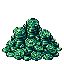
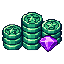
Clarify coin stacks and shorten road preview samples

diff --git a/test/node/coin_icon.test.js b/test/node/coin_icon.test.js
@@ -34,8 +34,8 @@ test('coin icon: the world coin scale derives from the 64px texture', () => {
     'the old 16px-disc scale is gone');
   assert.truthy(/setScale\(\(pile.width \/ s\.width\) \* pulse\)/.test(RENDER_SRC),
     'the draw scales the 64px frame down to a fixed displayed width');
-  assert.truthy(/const COIN_DROP_PX = 16\.8;/.test(RENDER_SRC),
-    'the displayed width is 30% smaller than 24px, a named constant');
+  assert.truthy(/const COIN_DROP_PX = 13\.44;/.test(RENDER_SRC),
+    'the single coin is 20% smaller than its previous 16.8px width');
 });
 
 // ── No other face of money survives ───────────────────────────────────────

diff --git a/tools/preview_street_variants.js b/tools/preview_street_variants.js
@@ -33,7 +33,8 @@ const N = WG.cellsPerEdgeForTile(ty);
 const cellM = WG.CELL_M, tileEdgeM = N * cellM;
 const point = (x, y) => ({ x: (x + 0.5) * extent / N, y: (y + 0.5) * extent / N });
 const middle = Math.floor(N / 2);
-const line = [point(middle - 22, middle), point(middle + 22, middle)];
+const previewHalfLength = 22 * 0.7; // Shorter samples make verge details readable in the cards.
+const line = [point(middle - previewHalfLength, middle), point(middle + previewHalfLength, middle)];
 const lengthM = ctx.Streets.lineLengthM(line, tileEdgeM / extent);
 const local = (o) => ({ ...o, x: o.x - tx * tileEdgeM, y: o.y - ty * tileEdgeM });
 

diff --git a/index.html b/index.html
@@ -2697,7 +2697,7 @@
   <script src="src/interact.js?v=1417f94e"></script>
   <script src="src/play_tips.js?v=3e882690"></script>
   <script src="src/lighting.js?v=97d8ad0c"></script>
-  <script src="src/render.js?v=b77209cc"></script>
+  <script src="src/render.js?v=b0b8338f"></script>
   <script src="src/multiplayer.js?v=a4181a1f"></script>
   <script src="src/road_overlay.js?v=bbe74df5"></script>
   <script src="src/building_overlay.js?v=d8681b44"></script>

diff --git a/sw.js b/sw.js
@@ -9,7 +9,7 @@
 //      so they're safe to cache forever. Strategy: cache-first with network
 //      fallback. This makes a visited region playable offline.
 
-const SHELL_VERSION = 'shell-234bd955';
+const SHELL_VERSION = 'shell-06e5e6d4';
 const TILE_CACHE    = 'tiles-v1';
 // How old a cached tile may get before it is refreshed IN THE BACKGROUND. It
 // is never an expiry: a stale tile is still served, and a failed refresh keeps

diff --git a/src/render.js b/src/render.js
@@ -53,7 +53,7 @@
 // pattern other scene code and tests use.)
 
 const Render = {};
-const COIN_DROP_PX = 16.8;
+const COIN_DROP_PX = 13.44;
 Render.COIN_DROP_PX = COIN_DROP_PX;
 // One coin keeps the HUD's face; piles show the amount waiting on the ground.
 Render.COIN_PILES = [
